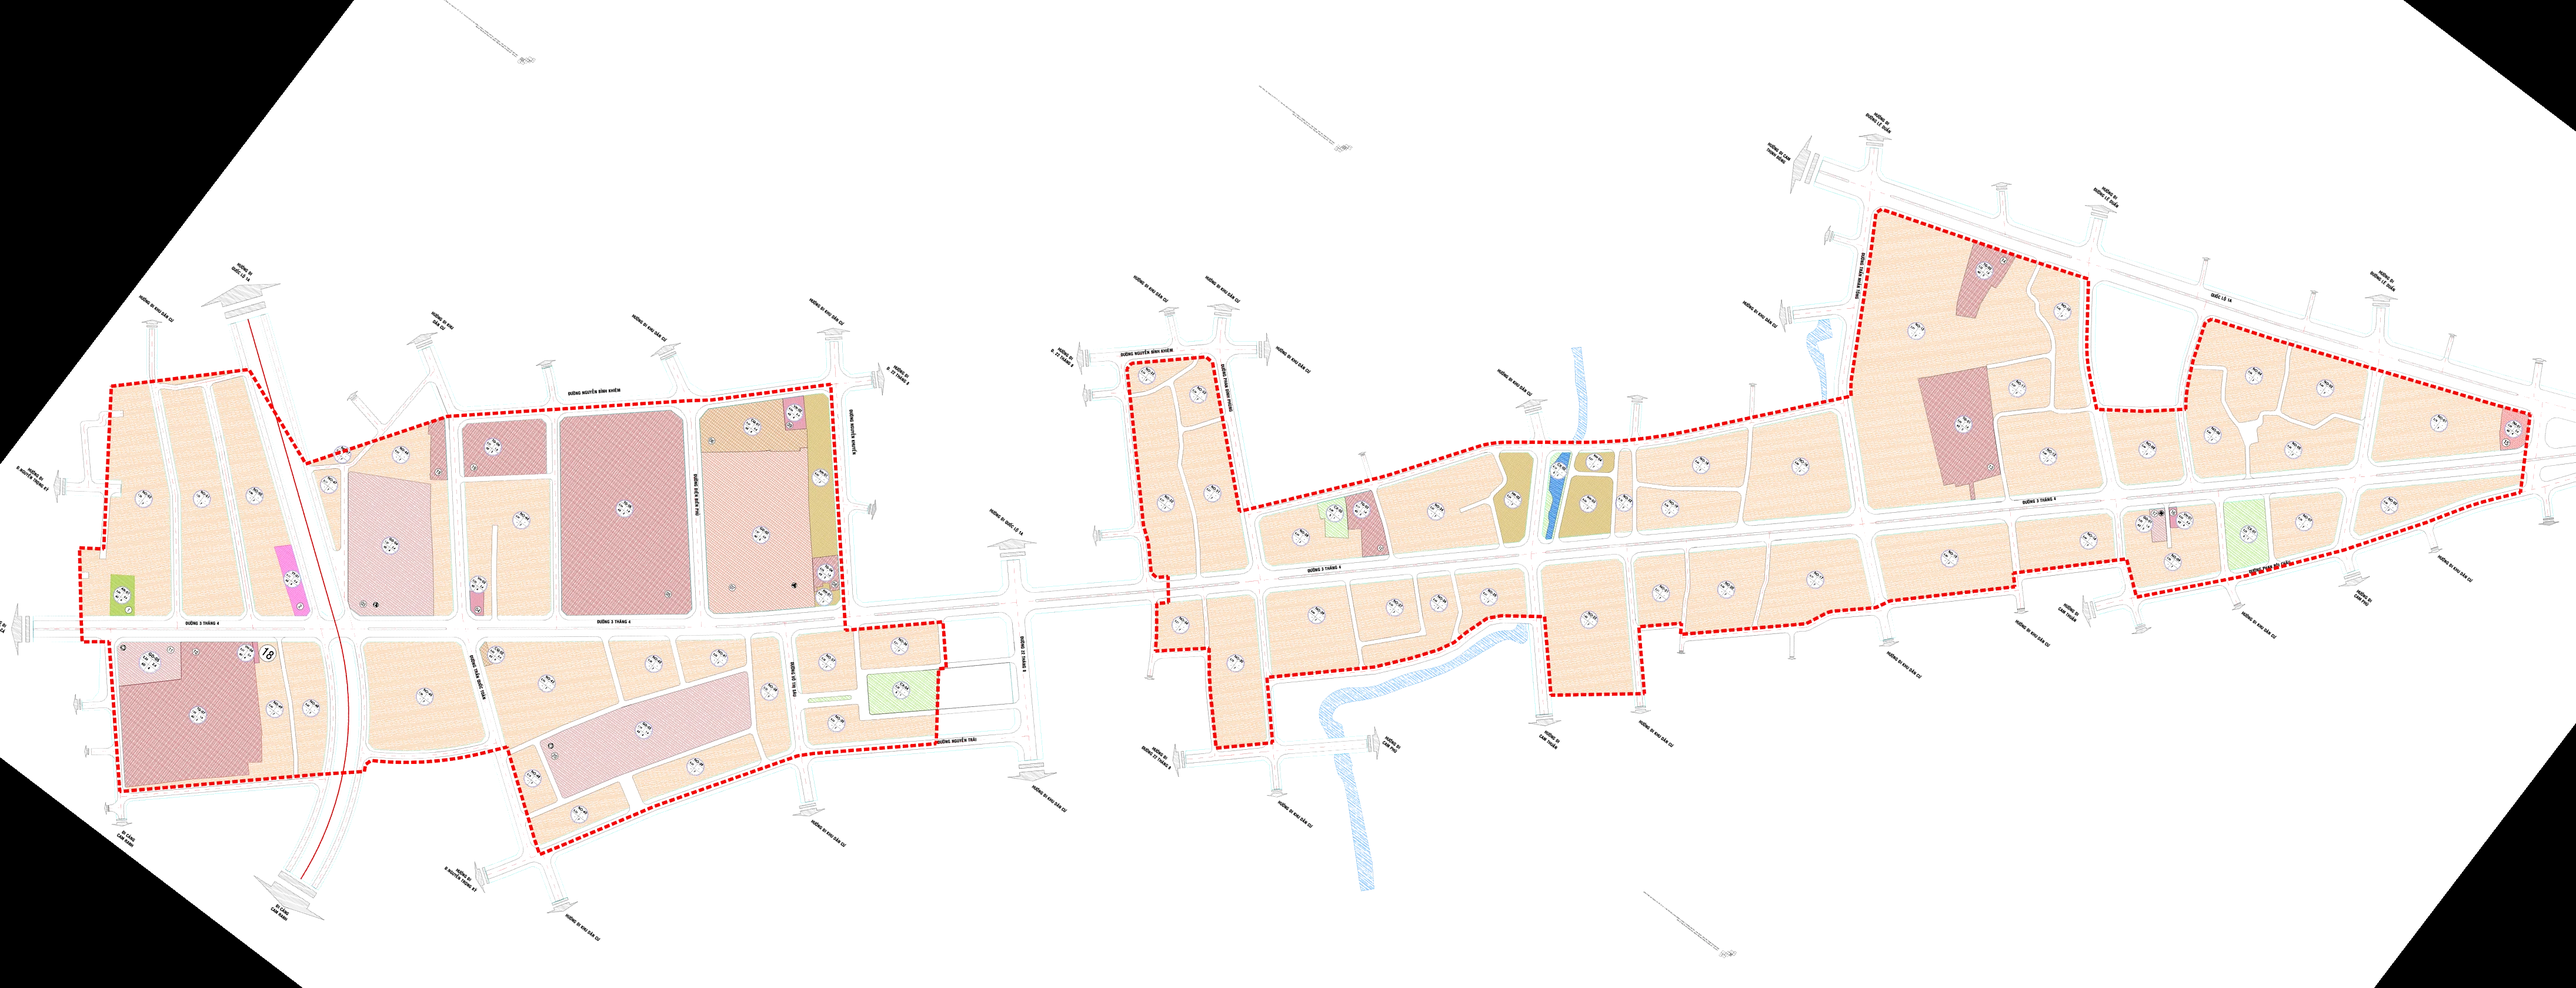
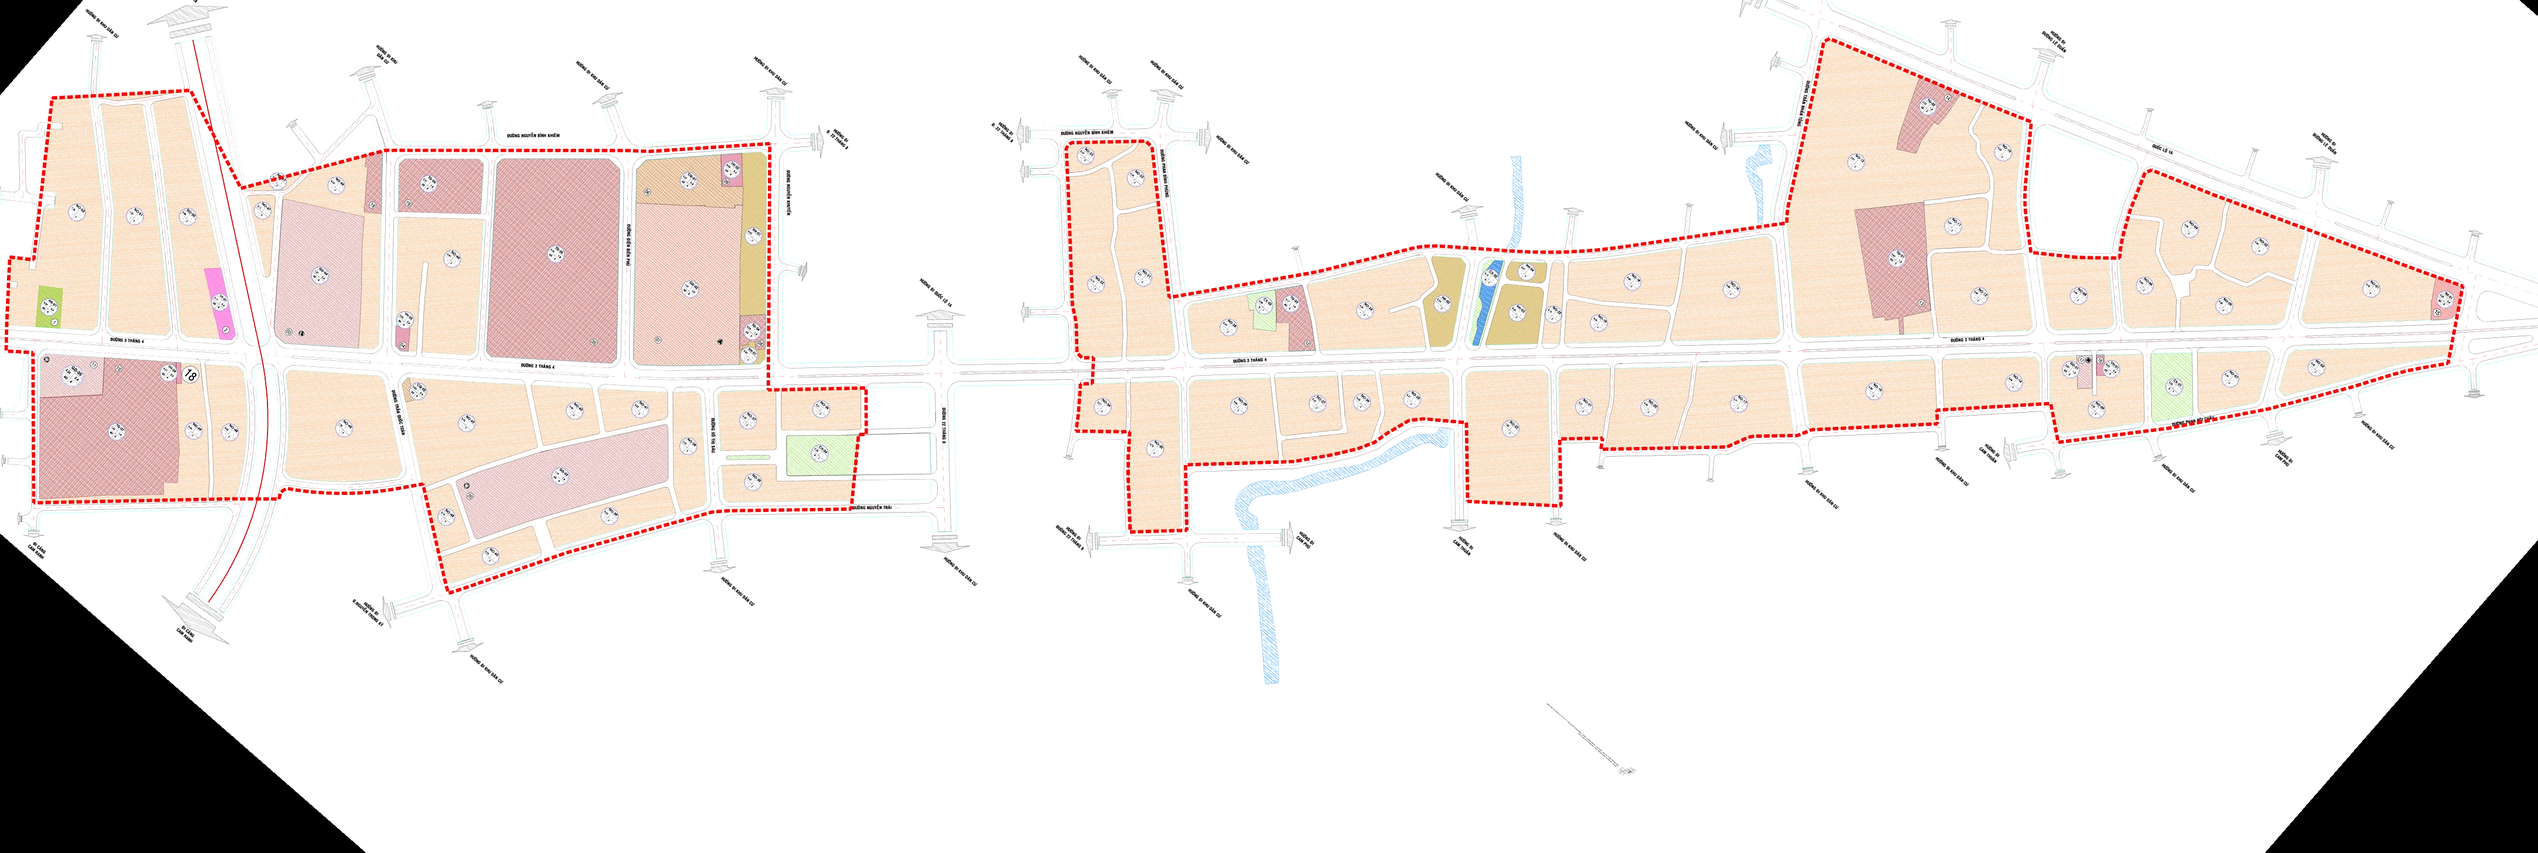
fix: Can khop 100% truc tim duong 3 Thang 4 voi Google Satellite sai so duoi 0.5m

diff --git a/src/components/Map.tsx b/src/components/Map.tsx
@@ -322,10 +322,10 @@ export default function MapLibreWrapper({ properties = [], searchLocation }: { p
           type="image" 
           url="/Map/docduong_3thang4.webp"
           coordinates={[
-            [109.150574, 11.914948], // Top-Left (Tây Bắc)
-            [109.158802, 11.914948], // Top-Right (Đông Bắc)
-            [109.158802, 11.911839], // Bottom-Right (Đông Nam)
-            [109.150574, 11.911839], // Bottom-Left (Tây Nam)
+            [109.150769, 11.914679], // Top-Left (Tây Bắc)
+            [109.158799, 11.914679], // Top-Right (Đông Bắc)
+            [109.158799, 11.912021], // Bottom-Right (Đông Nam)
+            [109.150769, 11.912021], // Bottom-Left (Tây Nam)
           ]}
         >
           <Layer 
